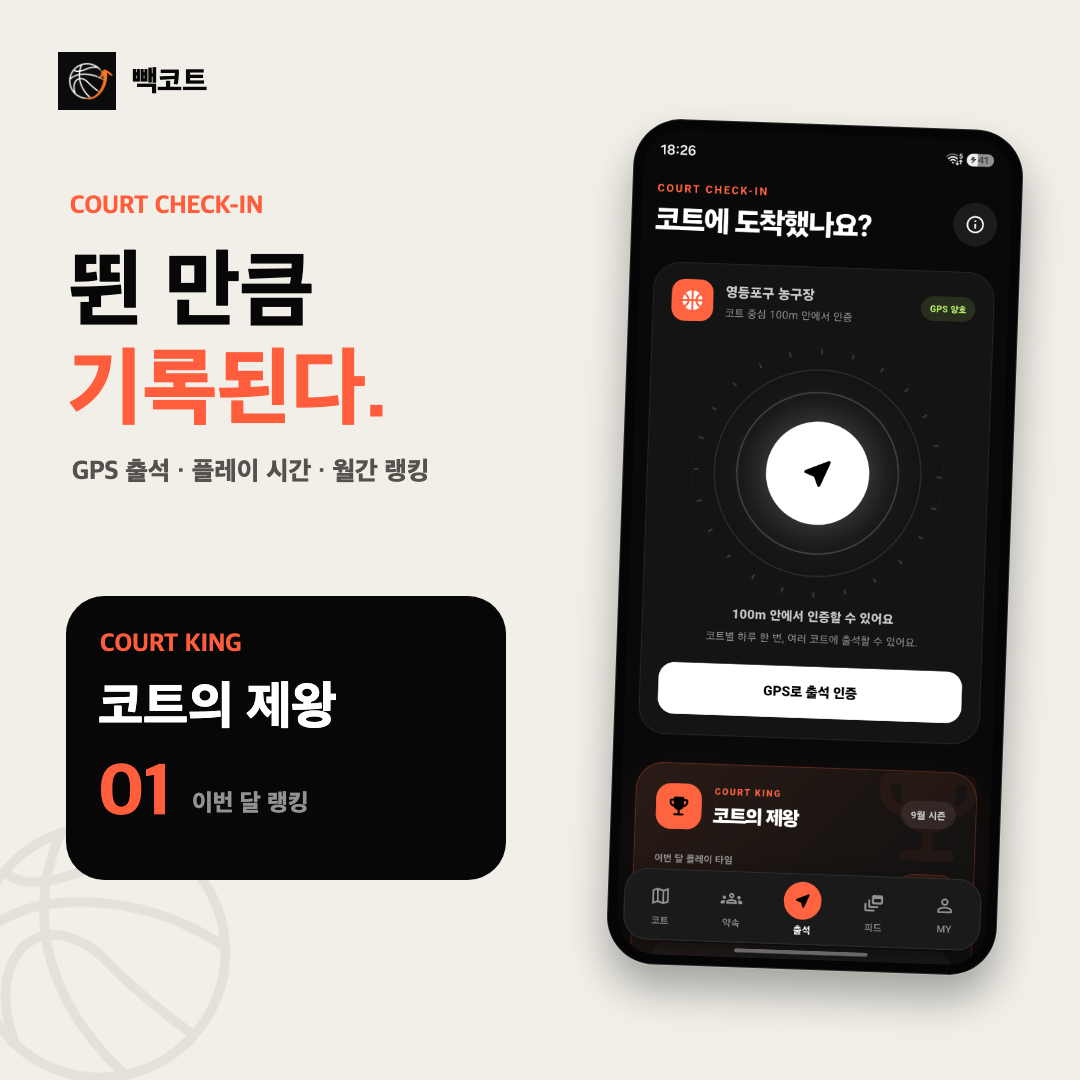
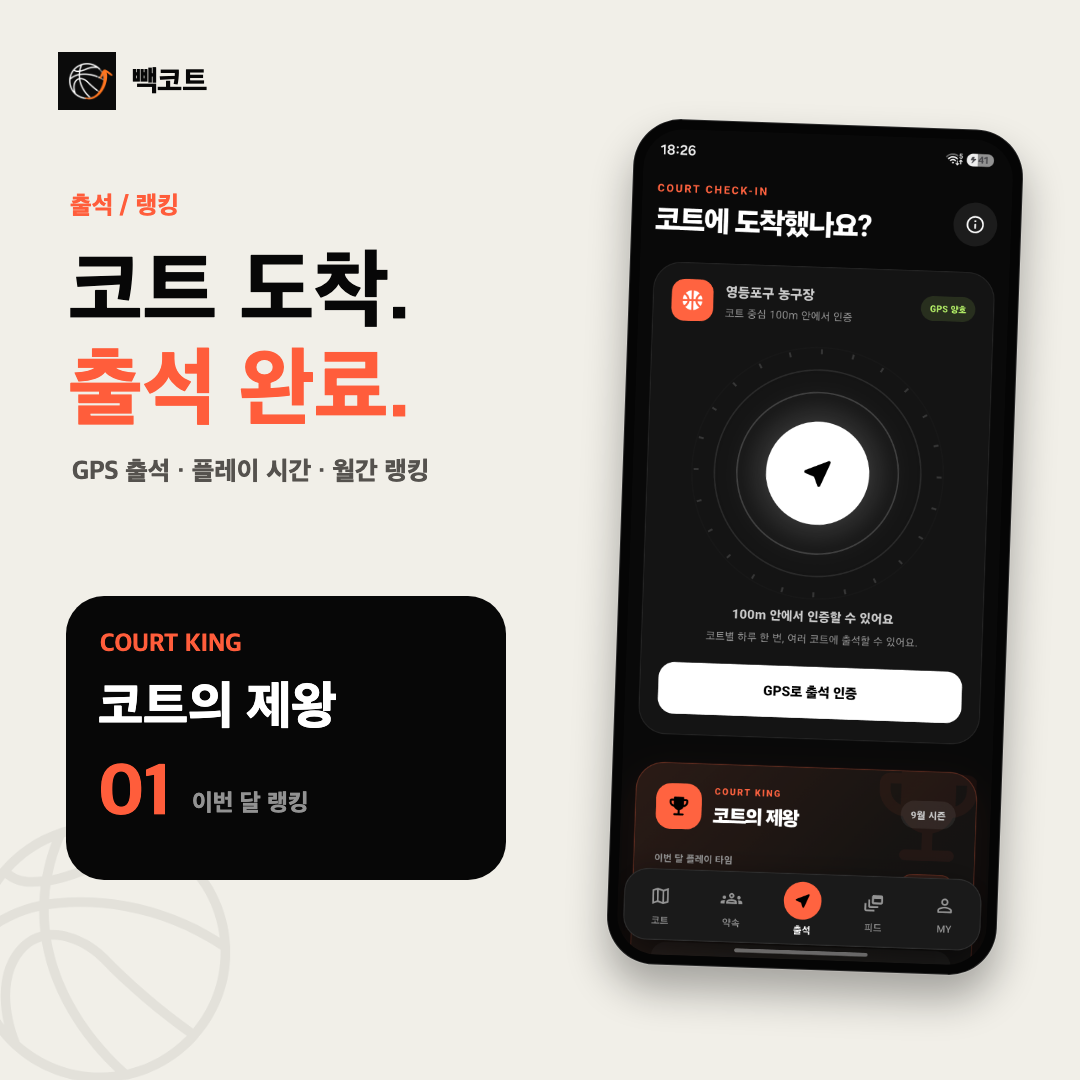
Rewrite social copy in a casual voice

Changed region(s): [[0.0611, 0.1833, 0.3972, 0.3972]]

diff --git a/Backcourt-Social/app.js b/Backcourt-Social/app.js
@@ -124,7 +124,7 @@ function slide1(ctx) {
   ctx.fillStyle = C.paper;
   ctx.fillRect(0, 0, SIZE, SIZE);
   brand(ctx, false);
-  label(ctx, "농구할 땐", 72, 252);
+  label(ctx, "BACKCOURT", 72, 252);
   ctx.fillStyle = C.ink;
   ctx.font = font(900, 110);
   ctx.fillText("일상에서", 70, 380);
@@ -133,7 +133,7 @@ function slide1(ctx) {
   ctx.fillStyle = C.ink;
   ctx.fillRect(72, 575, 68, 10);
   ctx.font = font(800, 30);
-  ctx.fillText("코트 찾기 · LIVE · 약속 · 기록", 72, 646);
+  ctx.fillText("코트 · LIVE · 약속 · 출석", 72, 646);
 
   ctx.save();
   ctx.globalAlpha = .065;
@@ -163,19 +163,18 @@ function slide2(ctx) {
   ctx.fillStyle = C.ink;
   ctx.fillRect(0, 0, SIZE, SIZE);
   brand(ctx, true);
-  label(ctx, "COURT MAP", 72, 216);
+  label(ctx, "코트 찾기", 72, 216);
   ctx.fillStyle = C.white;
   ctx.font = font(900, 92);
-  ctx.fillText("내 주변 코트", 70, 328);
-  ctx.fillText("한눈에", 70, 432);
+  ctx.fillText("근처에", 70, 328);
+  ctx.fillText("코트 있나?", 70, 432);
   roundedFill(ctx, 70, 493, 360, 72, 36, C.orange);
   ctx.fillStyle = C.white;
   ctx.font = font(900, 28);
-  ctx.fillText("전국 30,577개 코트", 100, 540);
+  ctx.fillText("전국 코트 30,577곳", 100, 540);
   ctx.fillStyle = C.muted;
   ctx.font = font(700, 25);
-  ctx.fillText("야외 · 무료 · 조명", 72, 622);
-  ctx.fillText("조건대로 바로 찾기", 72, 661);
+  ctx.fillText("야외  /  무료  /  조명", 72, 622);
 
   ctx.save();
   ctx.globalAlpha = .055;
@@ -192,11 +191,11 @@ function slide3(ctx) {
   ctx.fillStyle = C.orange;
   ctx.fillRect(0, 0, SIZE, SIZE);
   brand(ctx, false);
-  label(ctx, "PLAY TOGETHER", 72, 200, C.ink);
+  label(ctx, "LIVE / 약속", 72, 200, C.ink);
   ctx.fillStyle = C.ink;
   ctx.font = font(900, 92);
-  ctx.fillText("지금 뛰고", 70, 306);
-  ctx.fillText("약속 잡고", 70, 408);
+  ctx.fillText("오늘 같이", 70, 306);
+  ctx.fillText("뛸 사람?", 70, 408);
 
   roundedFill(ctx, 728, 196, 282, 74, 37, C.ink);
   ctx.fillStyle = C.white;
@@ -211,12 +210,12 @@ function slide4(ctx) {
   ctx.fillStyle = C.paper;
   ctx.fillRect(0, 0, SIZE, SIZE);
   brand(ctx, false);
-  label(ctx, "COURT CHECK-IN", 70, 214);
+  label(ctx, "출석 / 랭킹", 70, 214);
   ctx.fillStyle = C.ink;
   ctx.font = font(900, 86);
-  ctx.fillText("뛴 만큼", 68, 320);
+  ctx.fillText("코트 도착.", 68, 320);
   ctx.fillStyle = C.orange;
-  ctx.fillText("기록된다.", 68, 418);
+  ctx.fillText("출석 완료.", 68, 418);
   ctx.fillStyle = "#55524e";
   ctx.font = font(800, 26);
   ctx.fillText("GPS 출석 · 플레이 시간 · 월간 랭킹", 72, 480);
@@ -245,12 +244,12 @@ function slide5(ctx) {
   ctx.fillStyle = C.ink;
   ctx.fillRect(0, 0, SIZE, SIZE);
   brand(ctx, true);
-  label(ctx, "COURT STORIES", 70, 205);
+  label(ctx, "피드 / 프로필", 70, 205);
   ctx.fillStyle = C.white;
   ctx.font = font(900, 86);
-  ctx.fillText("농구할 땐,", 68, 308);
+  ctx.fillText("오늘 코트", 68, 308);
   ctx.fillStyle = C.orange;
-  ctx.fillText("빽코트.", 68, 408);
+  ctx.fillText("어땠음?", 68, 408);
   ctx.fillStyle = C.muted;
   ctx.font = font(800, 26);
   ctx.fillText("피드 · 프로필 · 나의 기록", 72, 468);
